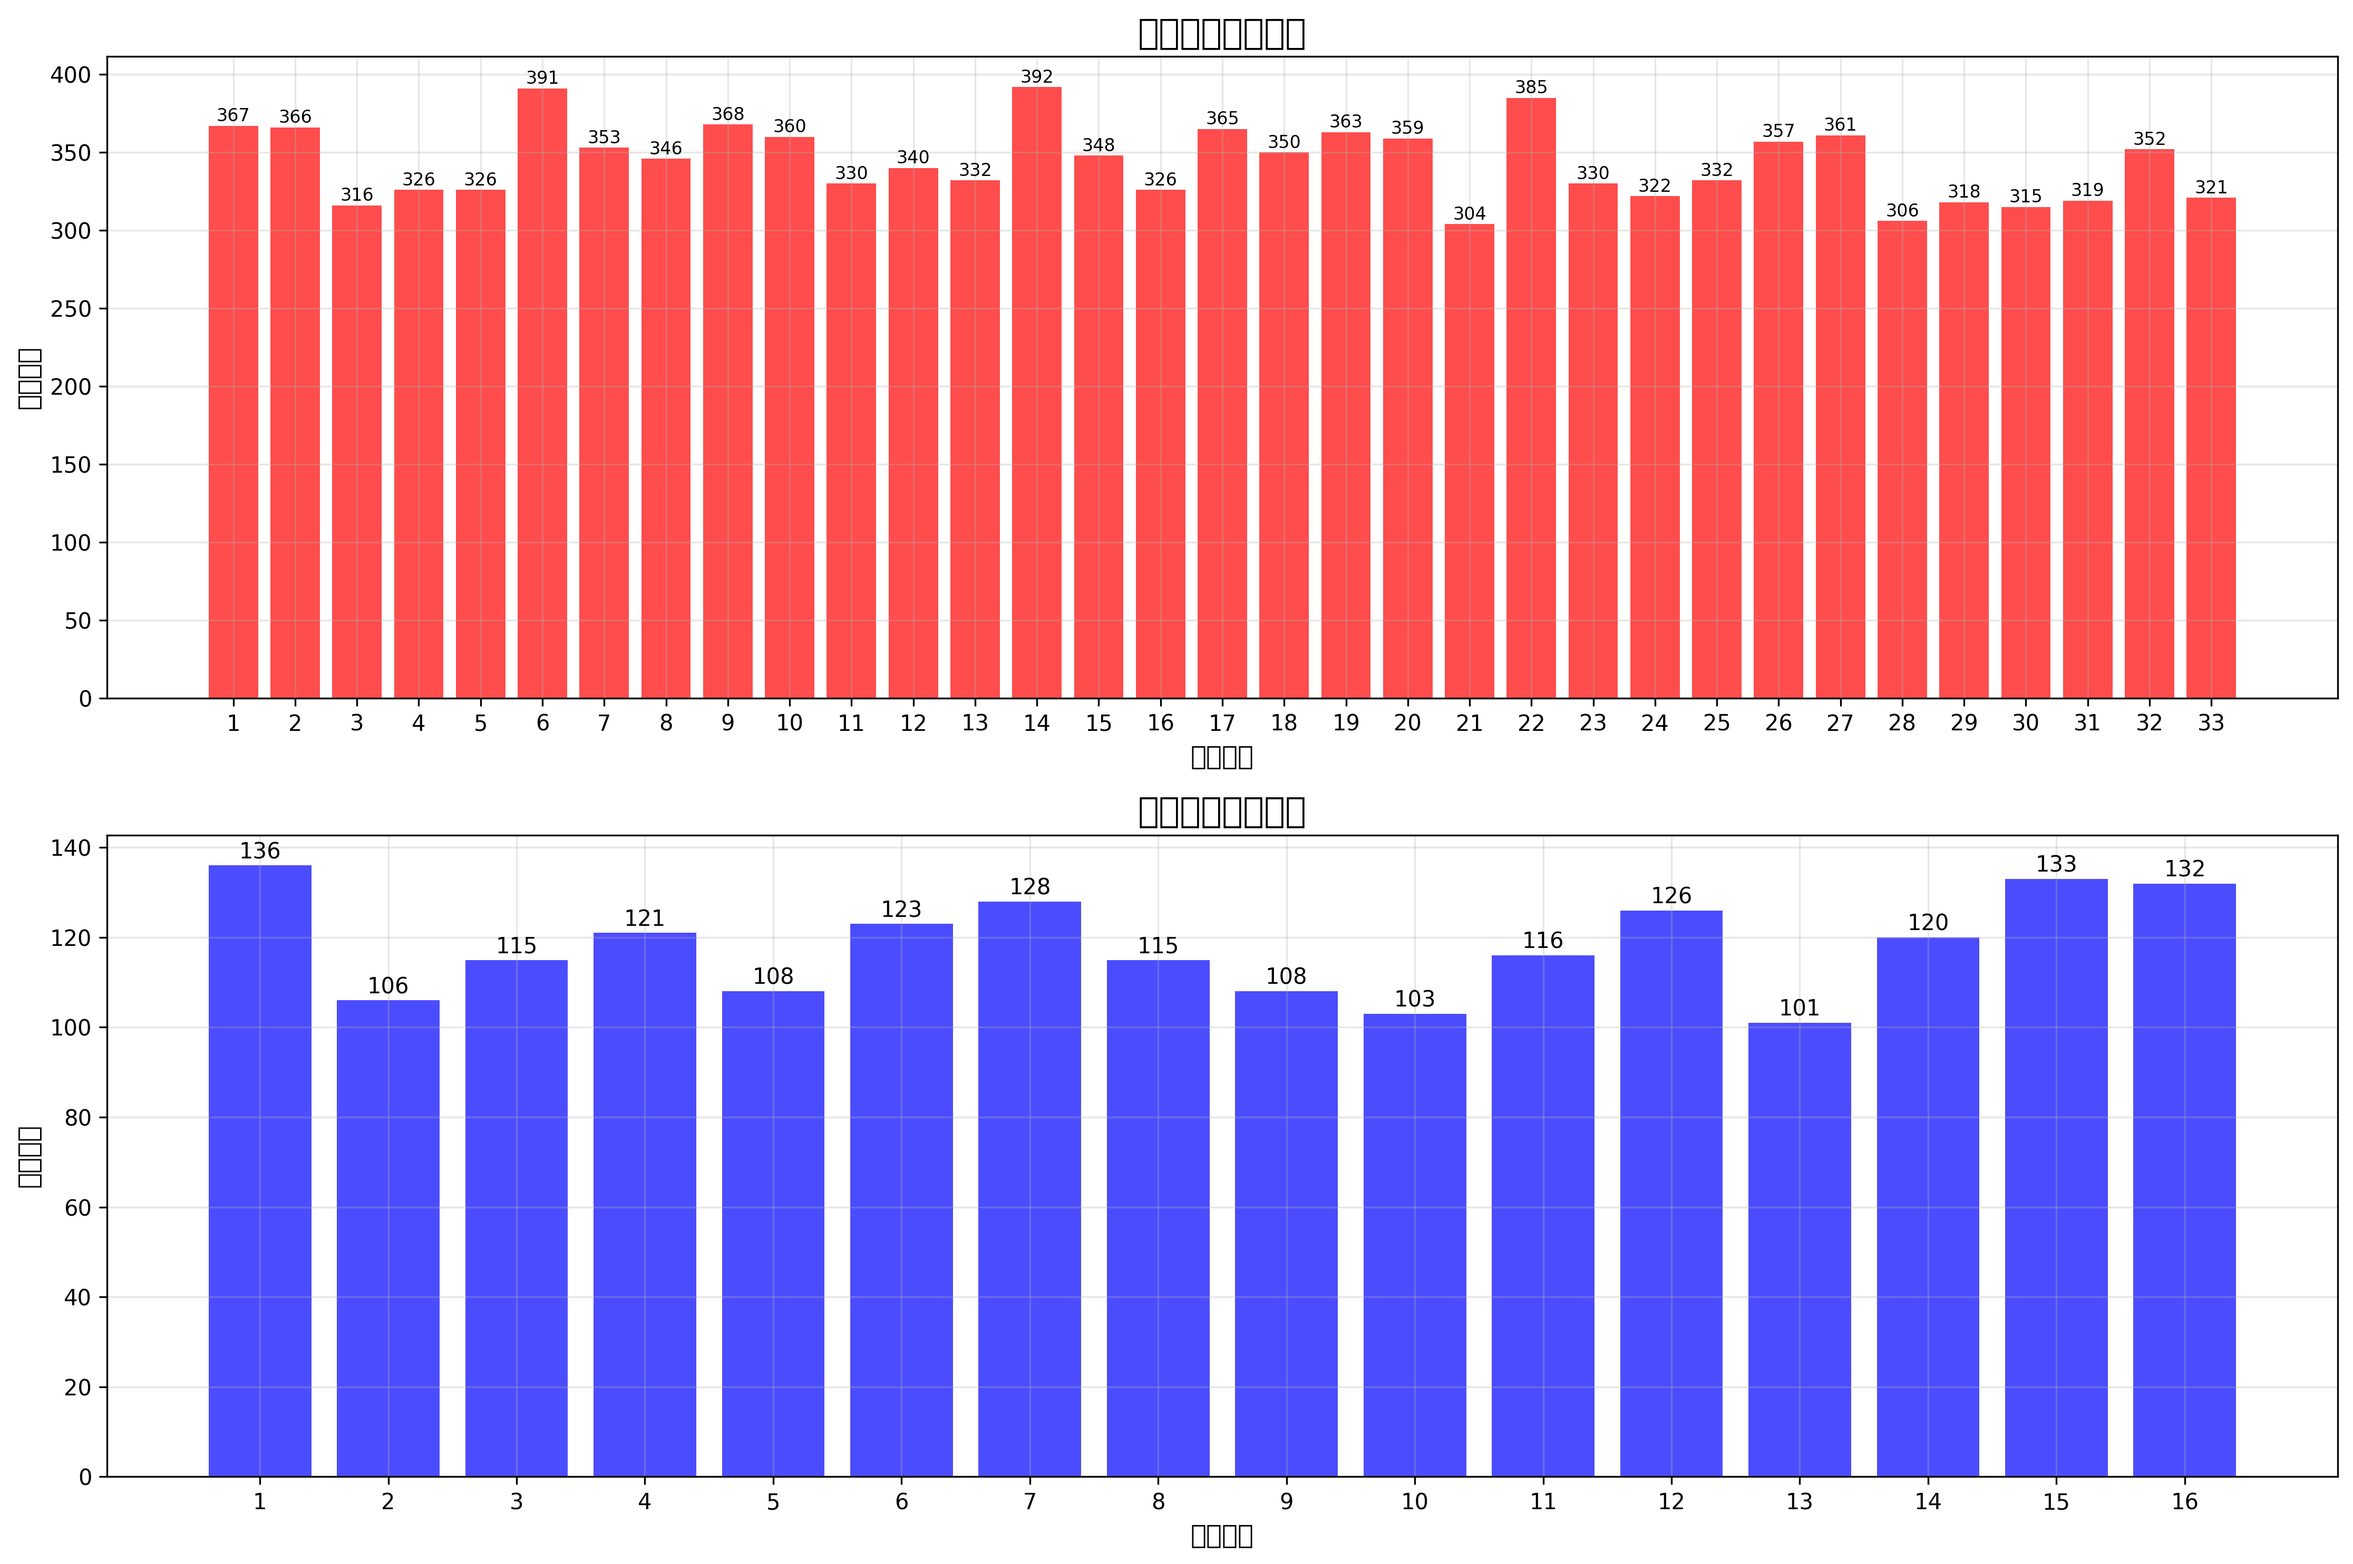
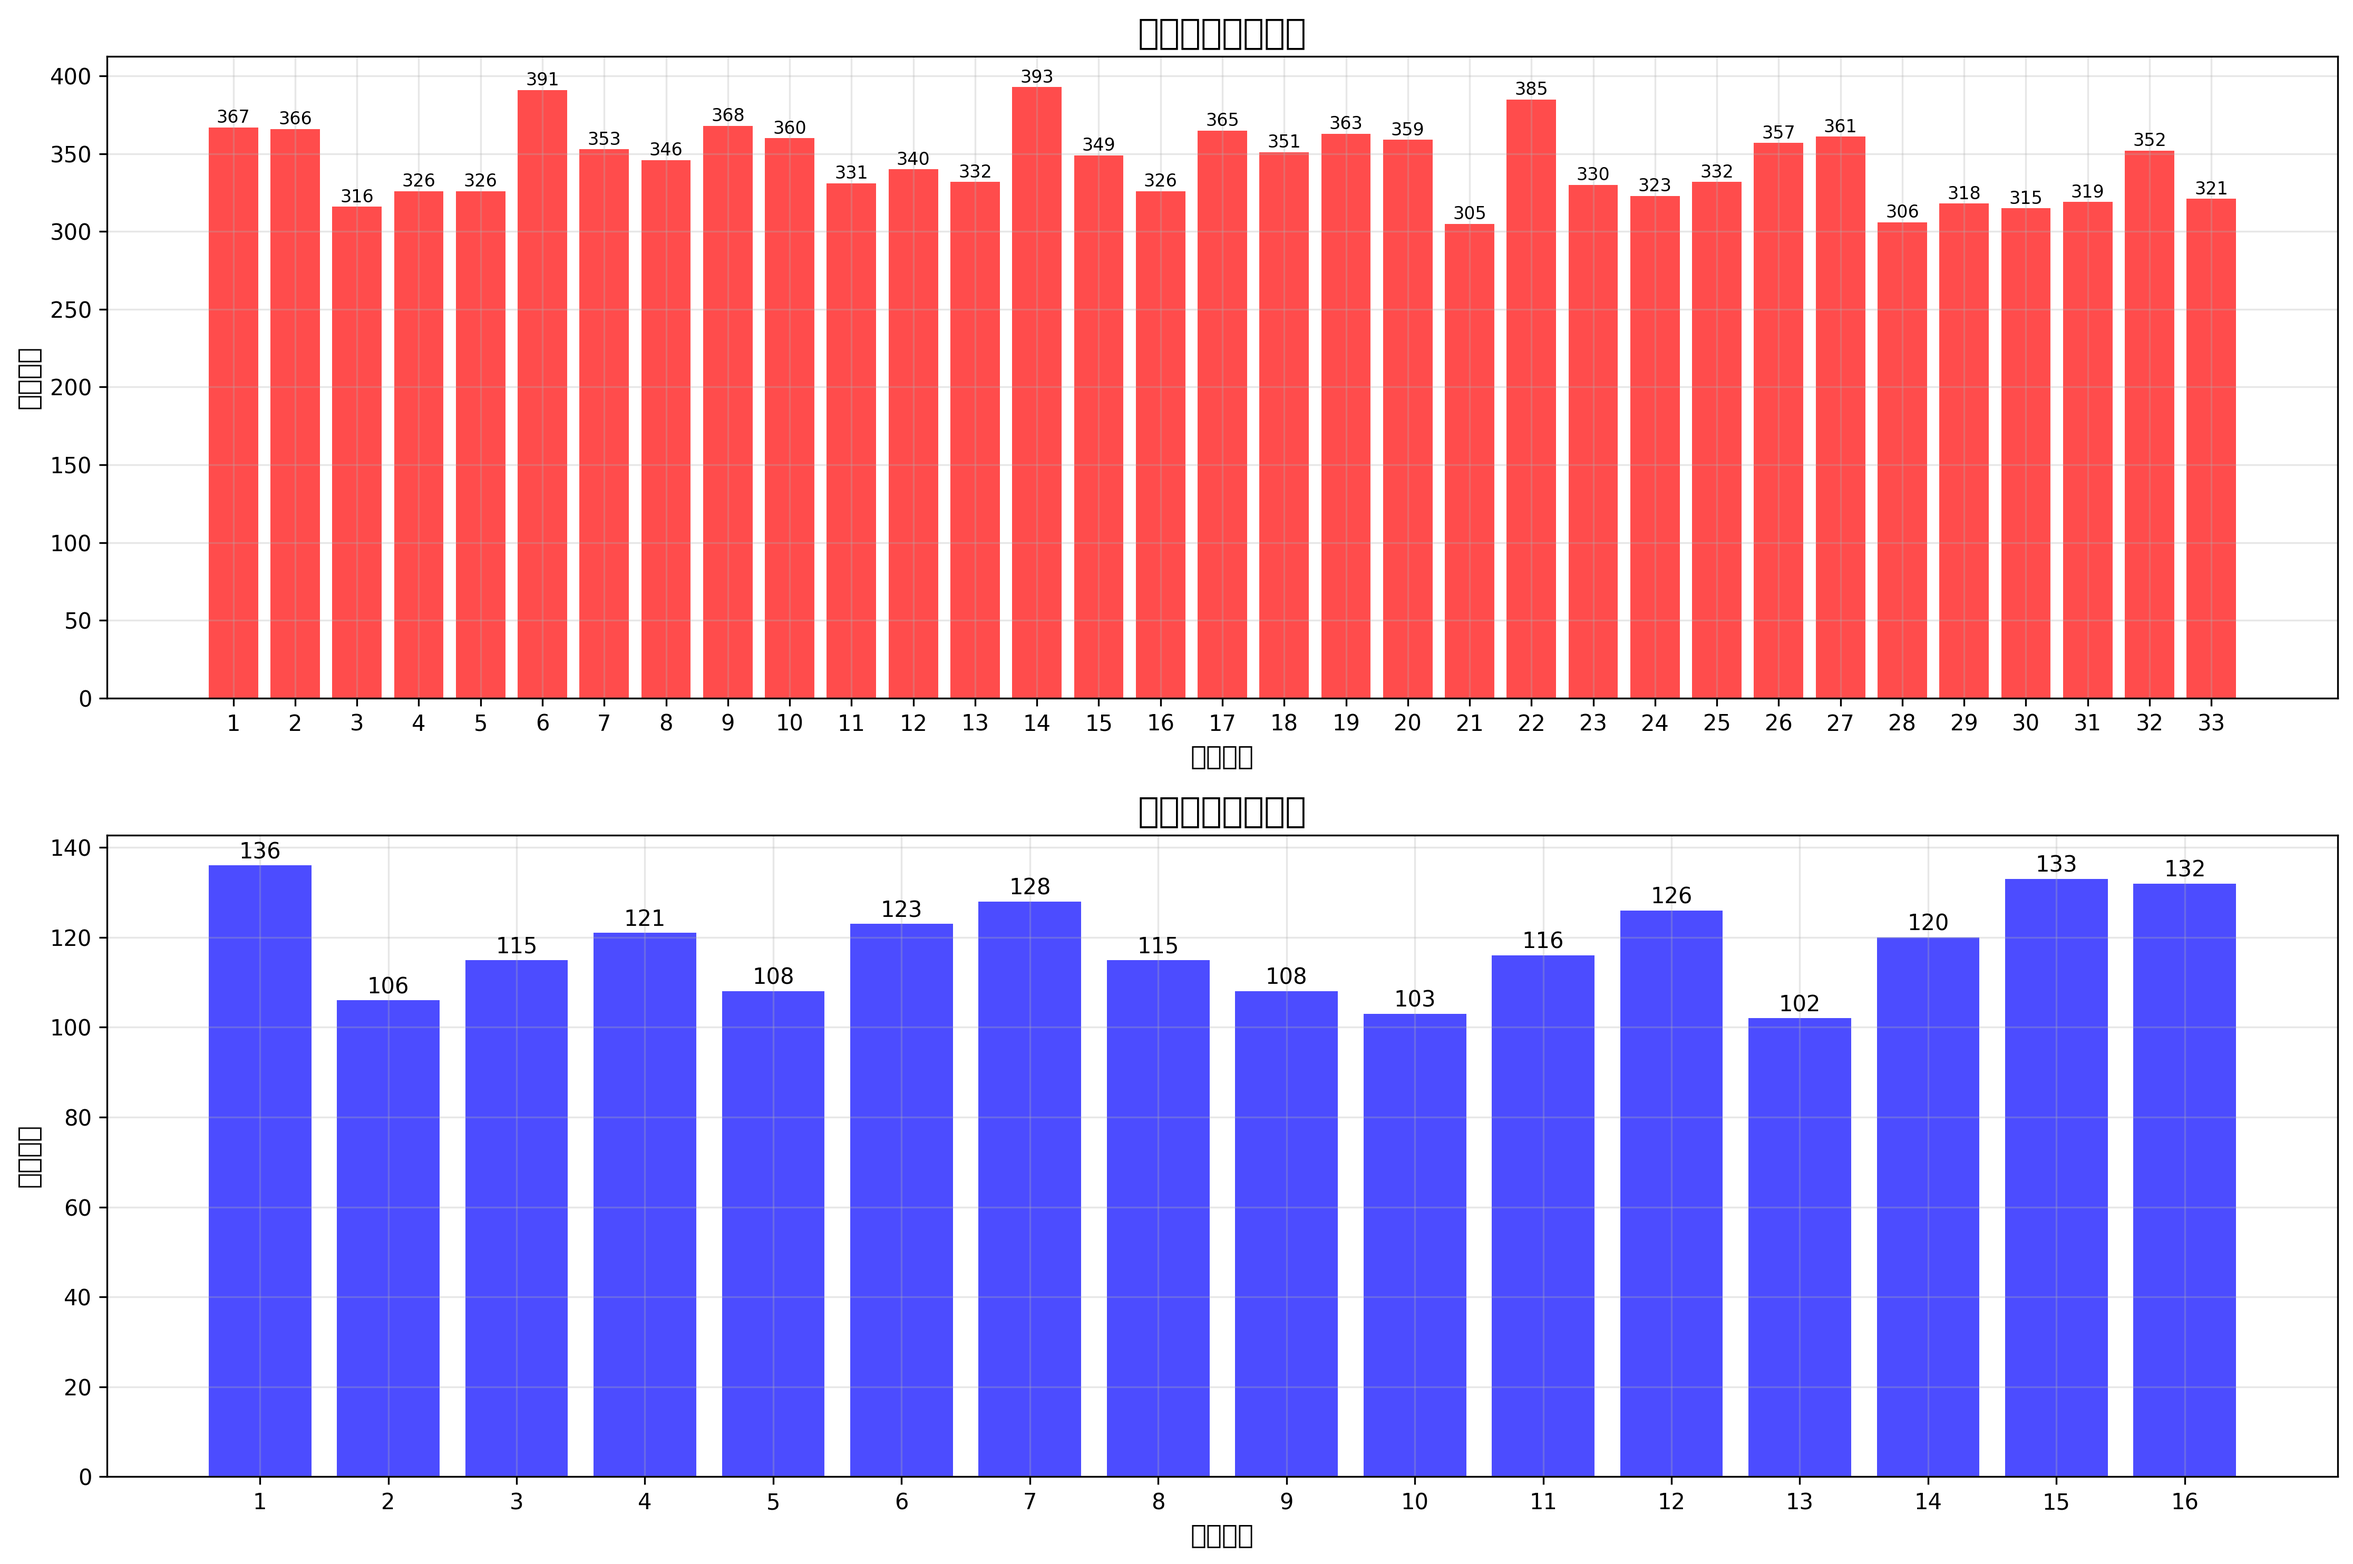
🎯 更新彩票数据和分析报告 - 2025-07-27 23:27:36 (UTC+8)

Changed region(s): [[0.3114, 0.062, 0.3425, 0.093], [0.0934, 0.062, 0.1246, 0.093]]

diff --git a/reports/analysis_report.md b/reports/analysis_report.md
@@ -1,9 +1,9 @@
 # 🎯 双色球数据分析报告
 
 ## 📊 报告信息
-- **生成时间**: 2025年07月26日 23:28:01 (UTC+8)
-- **数据期数**: 共 1891 期
-- **最新期号**: 2025084
+- **生成时间**: 2025年07月27日 23:27:36 (UTC+8)
+- **数据期数**: 共 1892 期
+- **最新期号**: 2025085
 - **数据来源**: 中国福利彩票官方API
 
 ## ⚠ 重要免责声明
@@ -15,6 +15,8 @@
 
 ### 最近5期开奖号码
 
+**2025085期** (2025-07-27): 11 14 15 18 21 24 + **13**
+
 **2025084期** (2025-07-24): 06 08 10 14 24 33 + **15**
 
 **2025083期** (2025-07-22): 10 15 16 17 27 29 + **12**
@@ -22,8 +24,6 @@
 **2025082期** (2025-07-20): 04 06 09 14 32 33 + **11**
 
 **2025081期** (2025-07-17): 03 06 18 20 23 28 + **05**
-
-**2025080期** (2025-07-15): 03 07 08 10 16 19 + **05**
 
 ---
 
@@ -33,12 +33,12 @@
 
 | 排名 | 号码 | 出现次数 | 出现频率 |
 |------|------|----------|----------|
-| 01 | **14** | 392 | 20.7% |
+| 01 | **14** | 393 | 20.8% |
 | 02 | **06** | 391 | 20.7% |
-| 03 | **22** | 385 | 20.4% |
+| 03 | **22** | 385 | 20.3% |
 | 04 | **09** | 368 | 19.5% |
 | 05 | **01** | 367 | 19.4% |
-| 06 | **02** | 366 | 19.4% |
+| 06 | **02** | 366 | 19.3% |
 | 07 | **17** | 365 | 19.3% |
 | 08 | **19** | 363 | 19.2% |
 | 09 | **27** | 361 | 19.1% |
@@ -47,7 +47,7 @@
 | 12 | **26** | 357 | 18.9% |
 | 13 | **07** | 353 | 18.7% |
 | 14 | **32** | 352 | 18.6% |
-| 15 | **18** | 350 | 18.5% |
+| 15 | **18** | 351 | 18.6% |
 
 ### 蓝球出现频率排行榜（前10名）
 
@@ -72,9 +72,9 @@
 
 | 分布类型 | 出现次数 | 出现频率 |
 |----------|----------|----------|
-| 3奇3偶 | 669 | 35.4% |
+| 3奇3偶 | 670 | 35.4% |
 | 4奇2偶 | 471 | 24.9% |
-| 2奇4偶 | 453 | 24.0% |
+| 2奇4偶 | 453 | 23.9% |
 | 5奇1偶 | 143 | 7.6% |
 | 1奇5偶 | 115 | 6.1% |
 | 6奇0偶 | 21 | 1.1% |
@@ -92,8 +92,8 @@
 | 60-69 | 83 | 4.4% |
 | 70-79 | 165 | 8.7% |
 | 80-89 | 263 | 13.9% |
-| 90-99 | 332 | 17.6% |
-| 100-109 | 347 | 18.4% |
+| 90-99 | 332 | 17.5% |
+| 100-109 | 348 | 18.4% |
 | 110-119 | 305 | 16.1% |
 | 120-129 | 185 | 9.8% |
 | 130-139 | 97 | 5.1% |
@@ -108,10 +108,10 @@
 | 跨度范围 | 出现次数 | 出现频率 |
 |----------|----------|----------|
 | 5-9 | 4 | 0.2% |
-| 10-14 | 71 | 3.8% |
+| 10-14 | 72 | 3.8% |
 | 15-19 | 268 | 14.2% |
 | 20-24 | 566 | 29.9% |
-| 25-29 | 716 | 37.9% |
+| 25-29 | 716 | 37.8% |
 | 30-34 | 266 | 14.1% |
 
 
@@ -123,6 +123,7 @@
 
 | 期号 | 开奖日期 | 红球号码 | 蓝球 |
 |------|----------|----------|------|
+| 2025085 | 2025-07-27 | 11 14 15 18 21 24 | **13** |
 | 2025084 | 2025-07-24 | 06 08 10 14 24 33 | **15** |
 | 2025083 | 2025-07-22 | 10 15 16 17 27 29 | **12** |
 | 2025082 | 2025-07-20 | 04 06 09 14 32 33 | **11** |
@@ -132,12 +133,11 @@
 | 2025078 | 2025-07-10 | 06 15 17 30 32 33 | **14** |
 | 2025077 | 2025-07-08 | 04 07 08 15 20 21 | **15** |
 | 2025076 | 2025-07-06 | 02 06 09 12 14 30 | **08** |
-| 2025075 | 2025-07-03 | 10 12 14 19 20 21 | **15** |
 
 
 ### 热号分析
 
-**最近10期红球热号（出现2次及以上）**: 03 04 06 07 08 09 10 12 14 15 16 17 19 20 21 30 32 33
+**最近10期红球热号（出现2次及以上）**: 03 04 06 07 08 09 10 11 14 15 16 17 18 20 21 24 30 32 33
 
 **最近10期蓝球热号（出现2次及以上）**: 05 15
 
@@ -147,16 +147,16 @@
 
 **⚠ 以下推荐号码仅基于历史统计分析，不保证中奖，请理性参考！**
 
-**推荐组合 1** (高频主导): 01 06 11 14 18 20 + **01**
-- 特征: 2奇4偶 | 和值:70 | 跨度:19
+**推荐组合 1** (高频主导): 01 06 14 18 20 23 + **01**
+- 特征: 2奇4偶 | 和值:82 | 跨度:22
 - 说明: 基于最高频号码的稳定组合
 
-**推荐组合 2** (均衡分布): 06 07 22 23 27 29 + **15**
-- 特征: 4奇2偶 | 和值:114 | 跨度:23
+**推荐组合 2** (均衡分布): 06 07 11 22 27 29 + **15**
+- 特征: 4奇2偶 | 和值:102 | 跨度:23
 - 说明: 高中低频均衡的平衡组合
 
-**推荐组合 3** (中频优先): 07 14 18 20 23 30 + **16**
-- 特征: 2奇4偶 | 和值:112 | 跨度:23
+**推荐组合 3** (中频优先): 07 11 14 18 20 30 + **16**
+- 特征: 2奇4偶 | 和值:100 | 跨度:23
 - 说明: 中频主导的稳健组合
 
 **推荐组合 4** (冷热结合): 10 14 18 21 27 30 + **07**
@@ -222,6 +222,6 @@
 
 ---
 
-*报告生成时间: 2025年07月26日 23:28:01 (UTC+8)*  
+*报告生成时间: 2025年07月27日 23:27:36 (UTC+8)*  
 *数据来源: 中国福利彩票官方网站*  
 *仅供学习研究使用，请理性购彩*

diff --git a/README.md b/README.md
@@ -16,16 +16,16 @@
 
 **⚠ 以下推荐号码基于历史统计分析，仅供参考，不保证中奖！**
 
-### 双色球推荐 (更新时间: 2025年07月26日 23:27:43)
+### 双色球推荐 (更新时间: 2025年07月27日 23:27:15)
 
-**推荐 1** (高频主导): `01 06 11 14 18 20` + `01`  
-*基于最高频号码的稳定组合 | 2奇4偶 | 和值:70 | 跨度:19*
+**推荐 1** (高频主导): `01 06 14 18 20 23` + `01`  
+*基于最高频号码的稳定组合 | 2奇4偶 | 和值:82 | 跨度:22*
 
-**推荐 2** (均衡分布): `06 07 22 23 27 29` + `15`  
-*高中低频均衡的平衡组合 | 4奇2偶 | 和值:114 | 跨度:23*
+**推荐 2** (均衡分布): `06 07 11 22 27 29` + `15`  
+*高中低频均衡的平衡组合 | 4奇2偶 | 和值:102 | 跨度:23*
 
-**推荐 3** (中频优先): `07 14 18 20 23 30` + `16`  
-*中频主导的稳健组合 | 2奇4偶 | 和值:112 | 跨度:23*
+**推荐 3** (中频优先): `07 11 14 18 20 30` + `16`  
+*中频主导的稳健组合 | 2奇4偶 | 和值:100 | 跨度:23*
 
 **推荐 4** (冷热结合): `10 14 18 21 27 30` + `07`  
 *热号与冷号结合的对冲组合 | 2奇4偶 | 和值:120 | 跨度:20*
